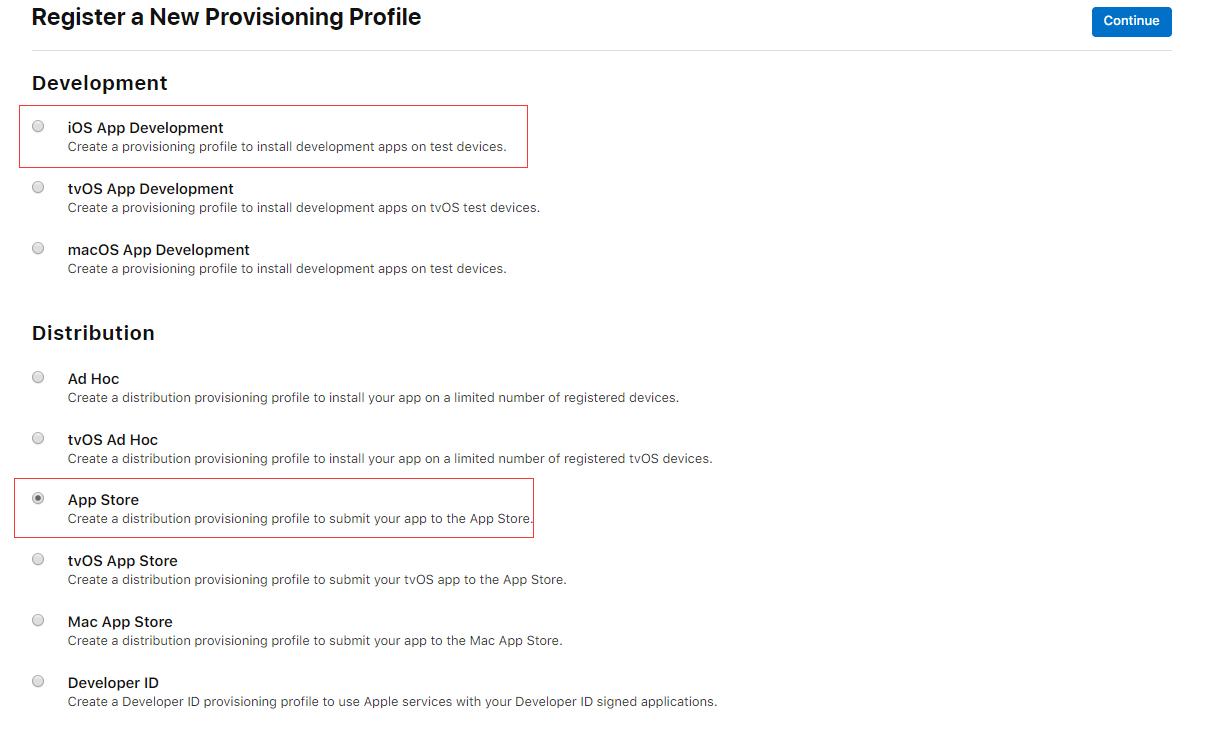
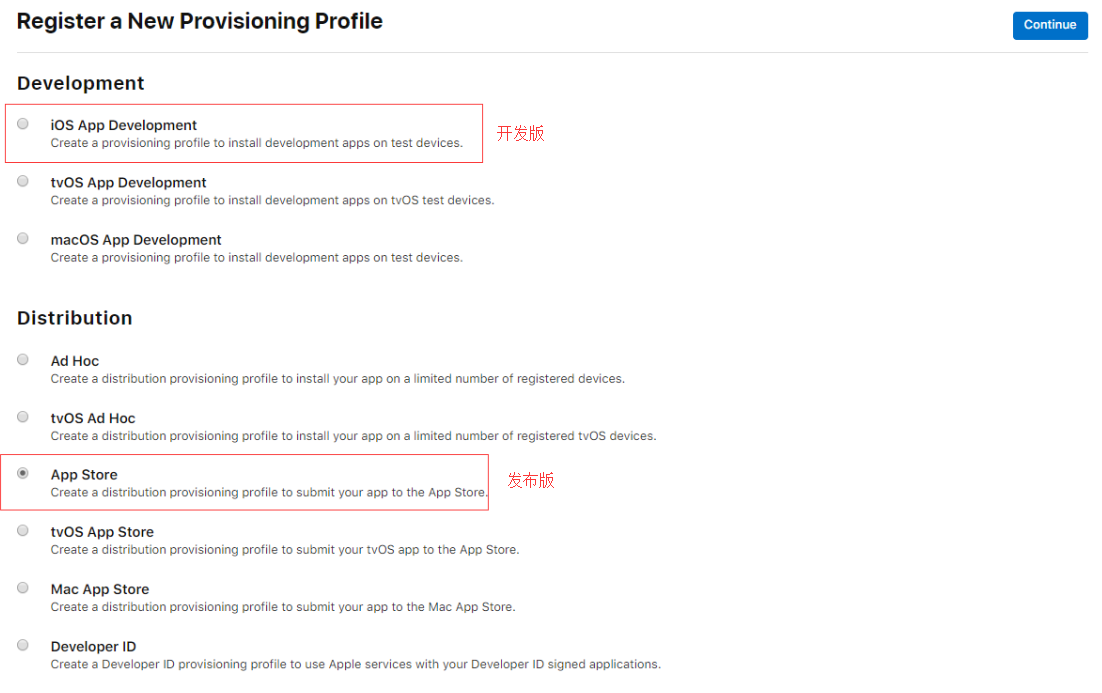
苹果描述文件，证书

diff --git a/source/_posts/Windows系统下创建苹果描述文件.md b/source/_posts/Windows系统下创建苹果描述文件.md
@@ -16,17 +16,45 @@ tags:
 
 点击Certificates, Identifiers & Profiles，如下图所示：
 
-![创建应用](HBuilder实现微信登录/16.png)
+![](HBuilder实现微信登录/16.png)
 
 先来创建Bundle ID（bundle ID可以翻译成包ID,也可以叫APP ID 或应用ID,它是每一个ios应用的`全球唯一标识），点击左侧菜单的Identifiers再点击加号添加按钮进行添加，如下
 
-![创建应用](HBuilder实现微信登录/14.png)
+![](HBuilder实现微信登录/14.png)
 
 选中第一个App IDs，再填写描述及bundle ID（按自己的需求来命名，尽量用英文），如下
 
-![创建应用](HBuilder实现微信登录/15.png)
+![](HBuilder实现微信登录/15.png)
 
-![创建应用](HBuilder实现微信登录/17.png)
+![](HBuilder实现微信登录/17.png)
+
+2. 添加设备（发布版跳过步骤2）
+
+   点击“Devices”进入注册设备界面。点击右上角“+”新建注册设备信息，如下
+
+   ![](HBuilder实现微信登录/19.png)
+
+   ![](HBuilder实现微信登录/13.png)
+
+   可以通过苹果手机助手获取UDID
+
+   如爱思助手，电脑下载爱思助手，连上苹果手机，设备信息里面那个设备标识就是udid。
+
+   ![](HBuilder实现微信登录/18.png)
+
+   3. 点击“Profiles”进入描述文件界面。点击右上角“+”新建描述文件，勾选描述文件类型，如下
+
+      ![](HBuilder实现微信登录/20.png)
+
+      ![](HBuilder实现微信登录/12.png)
+
+      ![](HBuilder实现微信登录/21.png)
+
+      ![](HBuilder实现微信登录/22.png)
+
+      ![](HBuilder实现微信登录/23.png)
+
+      ![](HBuilder实现微信登录/24.png)
 
 
 

diff --git a/source/_posts/Windows系统下申请苹果证书.md b/source/_posts/Windows系统下申请苹果证书.md
@@ -6,13 +6,15 @@ tags:
 - 命令
 ---
 
+### 具体步骤
+
 1. 登录苹果开发者账号-[传送门](https://idmsa.apple.com/IDMSWebAuth/signin?appIdKey=891bd3417a7776362562d2197f89480a8547b108fd934911bcbea0110d07f757&path=%2Faccount%2F&rv=1)  ，点击“cretificates,IDs&Profiles”进入证书申请界面。点击右上角“+”新建开发证书。勾选证书类型，如下
 
 ![](HBuilder实现微信登录/16.png)
 
 ![](HBuilder实现微信登录/5.png)
 
-![创建应用](HBuilder实现微信登录/6.png)
+![](HBuilder实现微信登录/6.png)
 
 > 1、iOS开发证书
 > iOS开发证书是用于测试APP，在开发过程中安装到苹果手机真机测试APP的运行情况。
@@ -24,15 +26,15 @@ tags:
 网站生成p12的具体流程是： 1、在这里生成csr文件 -> 2、到苹果开发者中心创建Certificates，过程中会要求上传第一步生成的csr，成功后下载生成的cer文件到你电脑（Certificates） -> 3、在这里上传下载的cer文件 -> 4、生成p12文件
 （注意，在开发者平台生成cer文件（建Certificates）的时候选择iOS Distribution类型，不要选择Apple Distribution）
 
-![创建应用](HBuilder实现微信登录/7.png)
+![](HBuilder实现微信登录/7.png)
 
-![创建应用](HBuilder实现微信登录/8.png)
+![](HBuilder实现微信登录/8.png)
 
-![创建应用](HBuilder实现微信登录/10.png)
+![](HBuilder实现微信登录/10.png)
 
-![创建应用](HBuilder实现微信登录/9.png)
+![](HBuilder实现微信登录/9.png)
 
-![创建应用](HBuilder实现微信登录/11.png)
+![](HBuilder实现微信登录/11.png)
 
 
 
